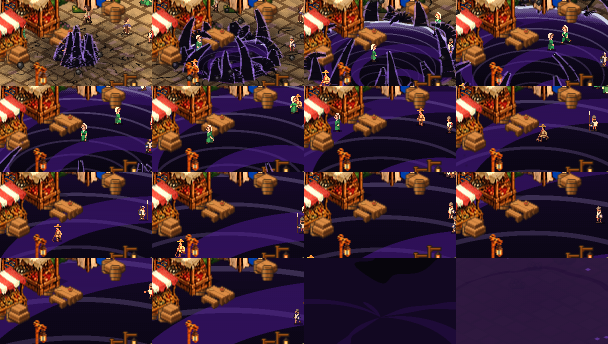
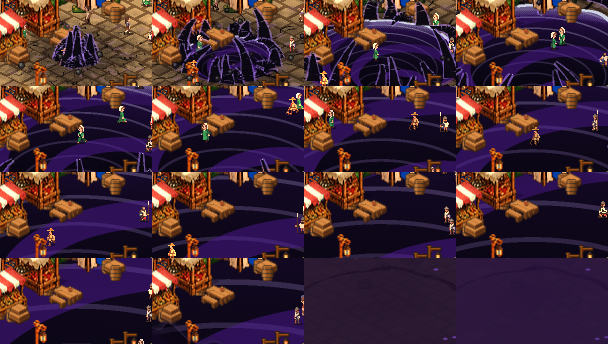
art: re-record the Veil clips for Unseen Hour, The Swallowing Dark and Evernight

diff --git a/docs/KAK_God_Veil_Rulings.md b/docs/KAK_God_Veil_Rulings.md
@@ -428,11 +428,11 @@ All recorded with `timeout 1200 $G --path . --fixed-fps 60 --audio-driver Dummy 
 
 - VRE1: doom: not re-recorded (its look did not change).
 - VRE2: blight: `--setup=dark --zoom=2.2` (the glyph shows over the sick in the dark).
-- VRE3: unseen: `--setup=dark --zoom=1.0 --seconds=12` (the blanket is wider than the frame at 2.2).
+- VRE3: unseen: the light size (no --setup), `--zoom=0.5 --seconds=21.7 --fx-clock` (0.5 is the tool's zoom floor, 0.3 gives the same frames; the radius-5 circle is still wider than the clip's crop, so the sheet shows the lit town, the thrown blanket at the click, then the whole frame under violet, and the lit town again at the lift; the hem itself is outside the crop at any zoom).
 - VRE4: slumber: `--setup=dark --zoom=2.2 --seconds=4`.
 - VRE5: cloak: `--setup=dark --zoom=2.2 --seconds=6`.
 - VRE6: dreamless: `--zoom=2.2 --seconds=20` (lit size, the whole rest to the find). Its thread is too thin to read at 152 x 86.
 - VRE7: dread: `--setup=dusk --zoom=1.2 --cam=1,0 --seconds=20` (the wall stands round the dusk patch east of the cast; at the dark size the whole frame is dreaded and the wall is off screen).
 - VRE8: shadowplay: `--setup=dark --zoom=2.2 --seconds=8`.
-- VRE9: swallow: `--zoom=1.0 --seconds=22` (growth, hole, the fold and the bare bowl).
-- VRE10: evernight: `--look=night --zoom=1.0 --seconds=20` (the wall of night, then the night with torch islands).
+- VRE9: swallow: `--zoom=1.0 --seconds=22.8 --fx-clock` (_clip spaces frames evenly and has no start offset, so the growth takes 13 frames and the 1.4 s closing rim falls between two frames and is not caught: the sheet shows the funnel and tendrils, the hole filling the frame, then the town black and the last two frames the bare bowl).
+- VRE10: evernight: by day, `--zoom=0.7 --seconds=14 --fx-clock` (no --look=night: frame 1 the wall of night over the lit market, the rest the night with its torch islands and stars; the moon sits in the screen's corner, outside the clip's centre crop).
